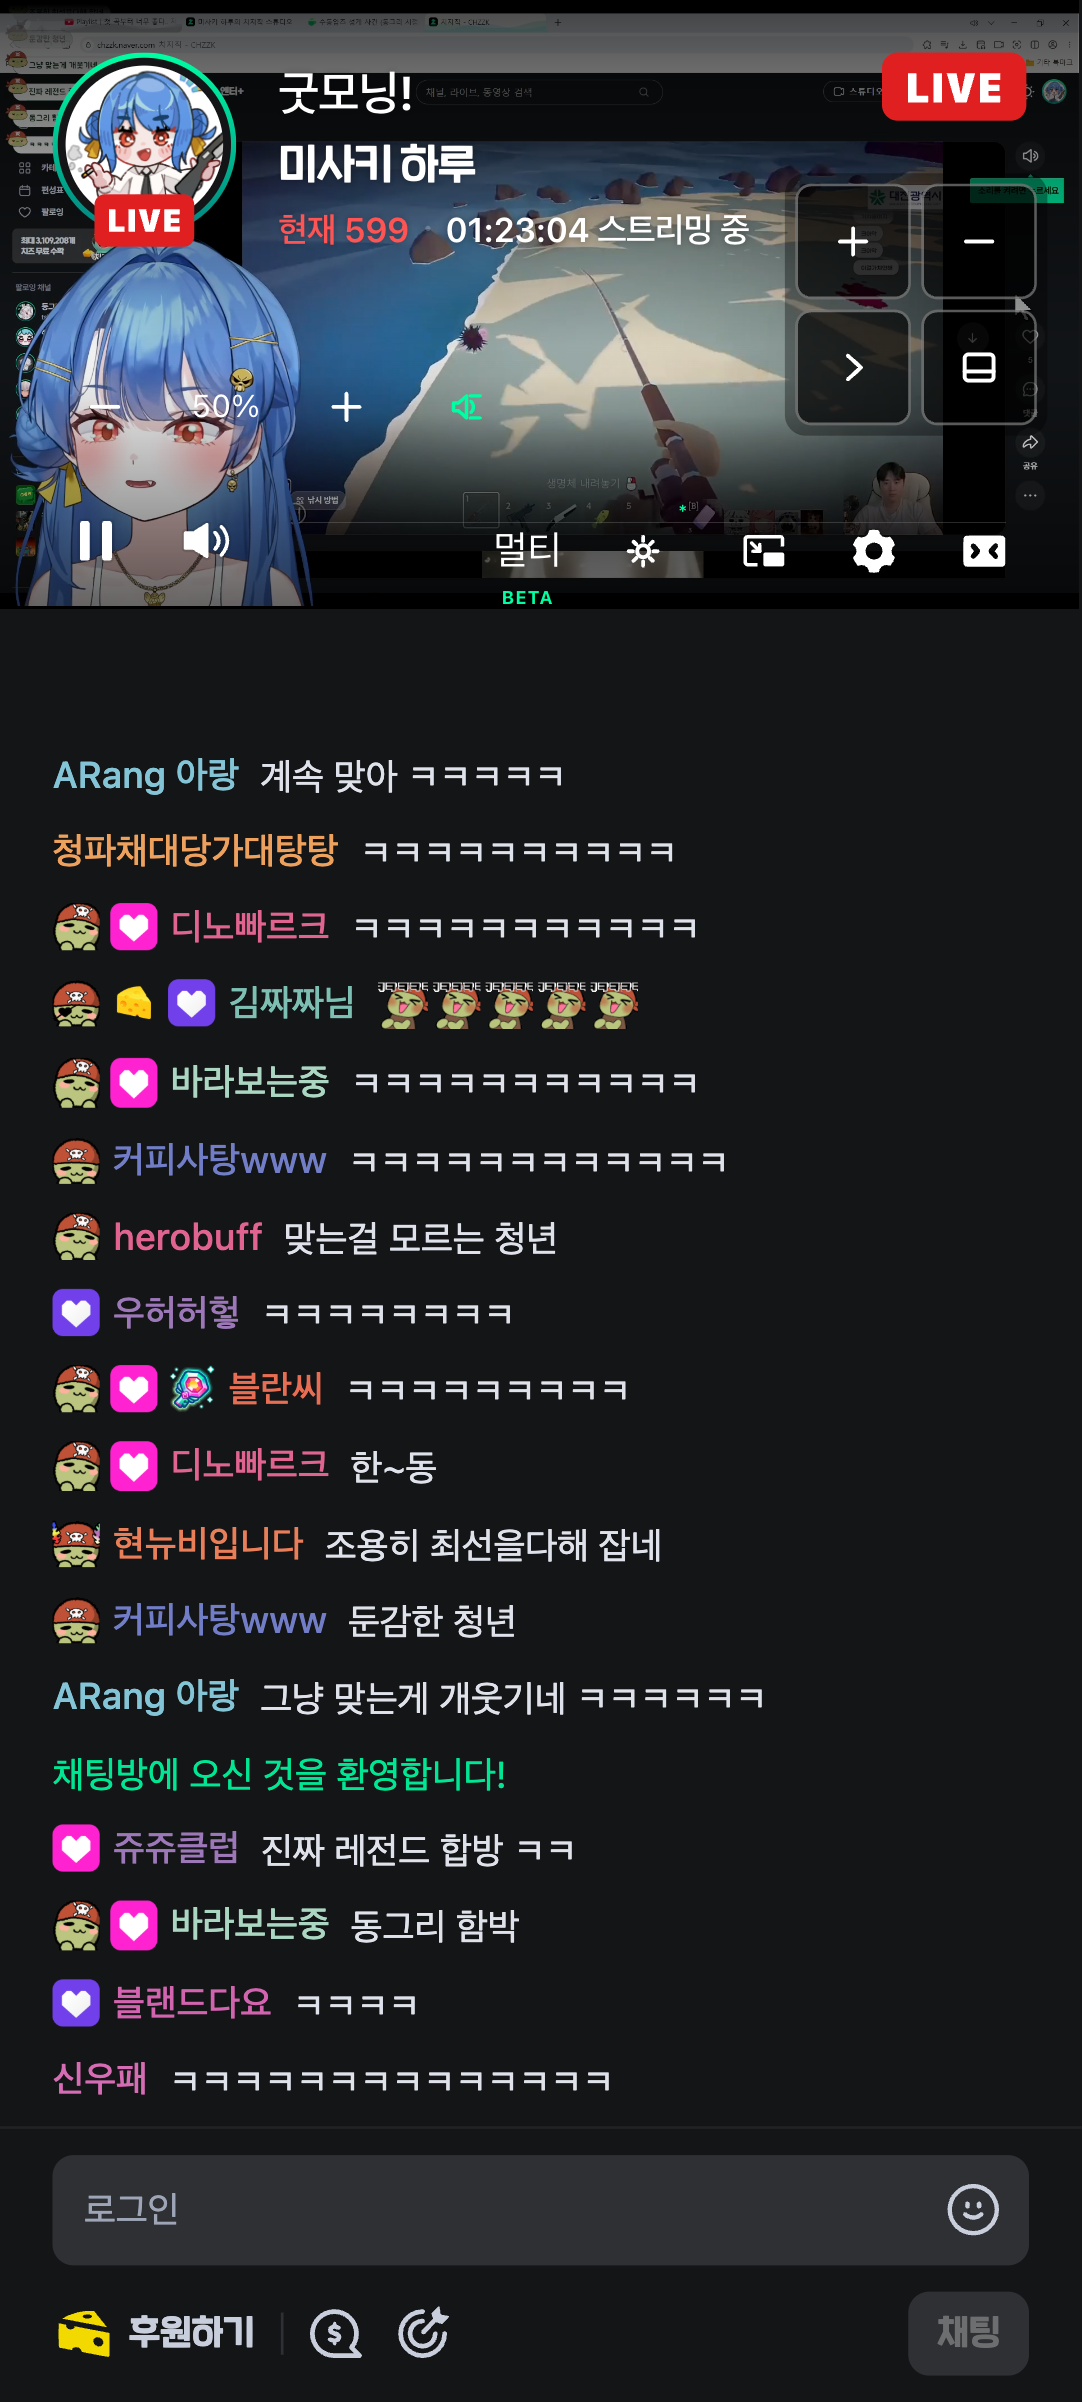
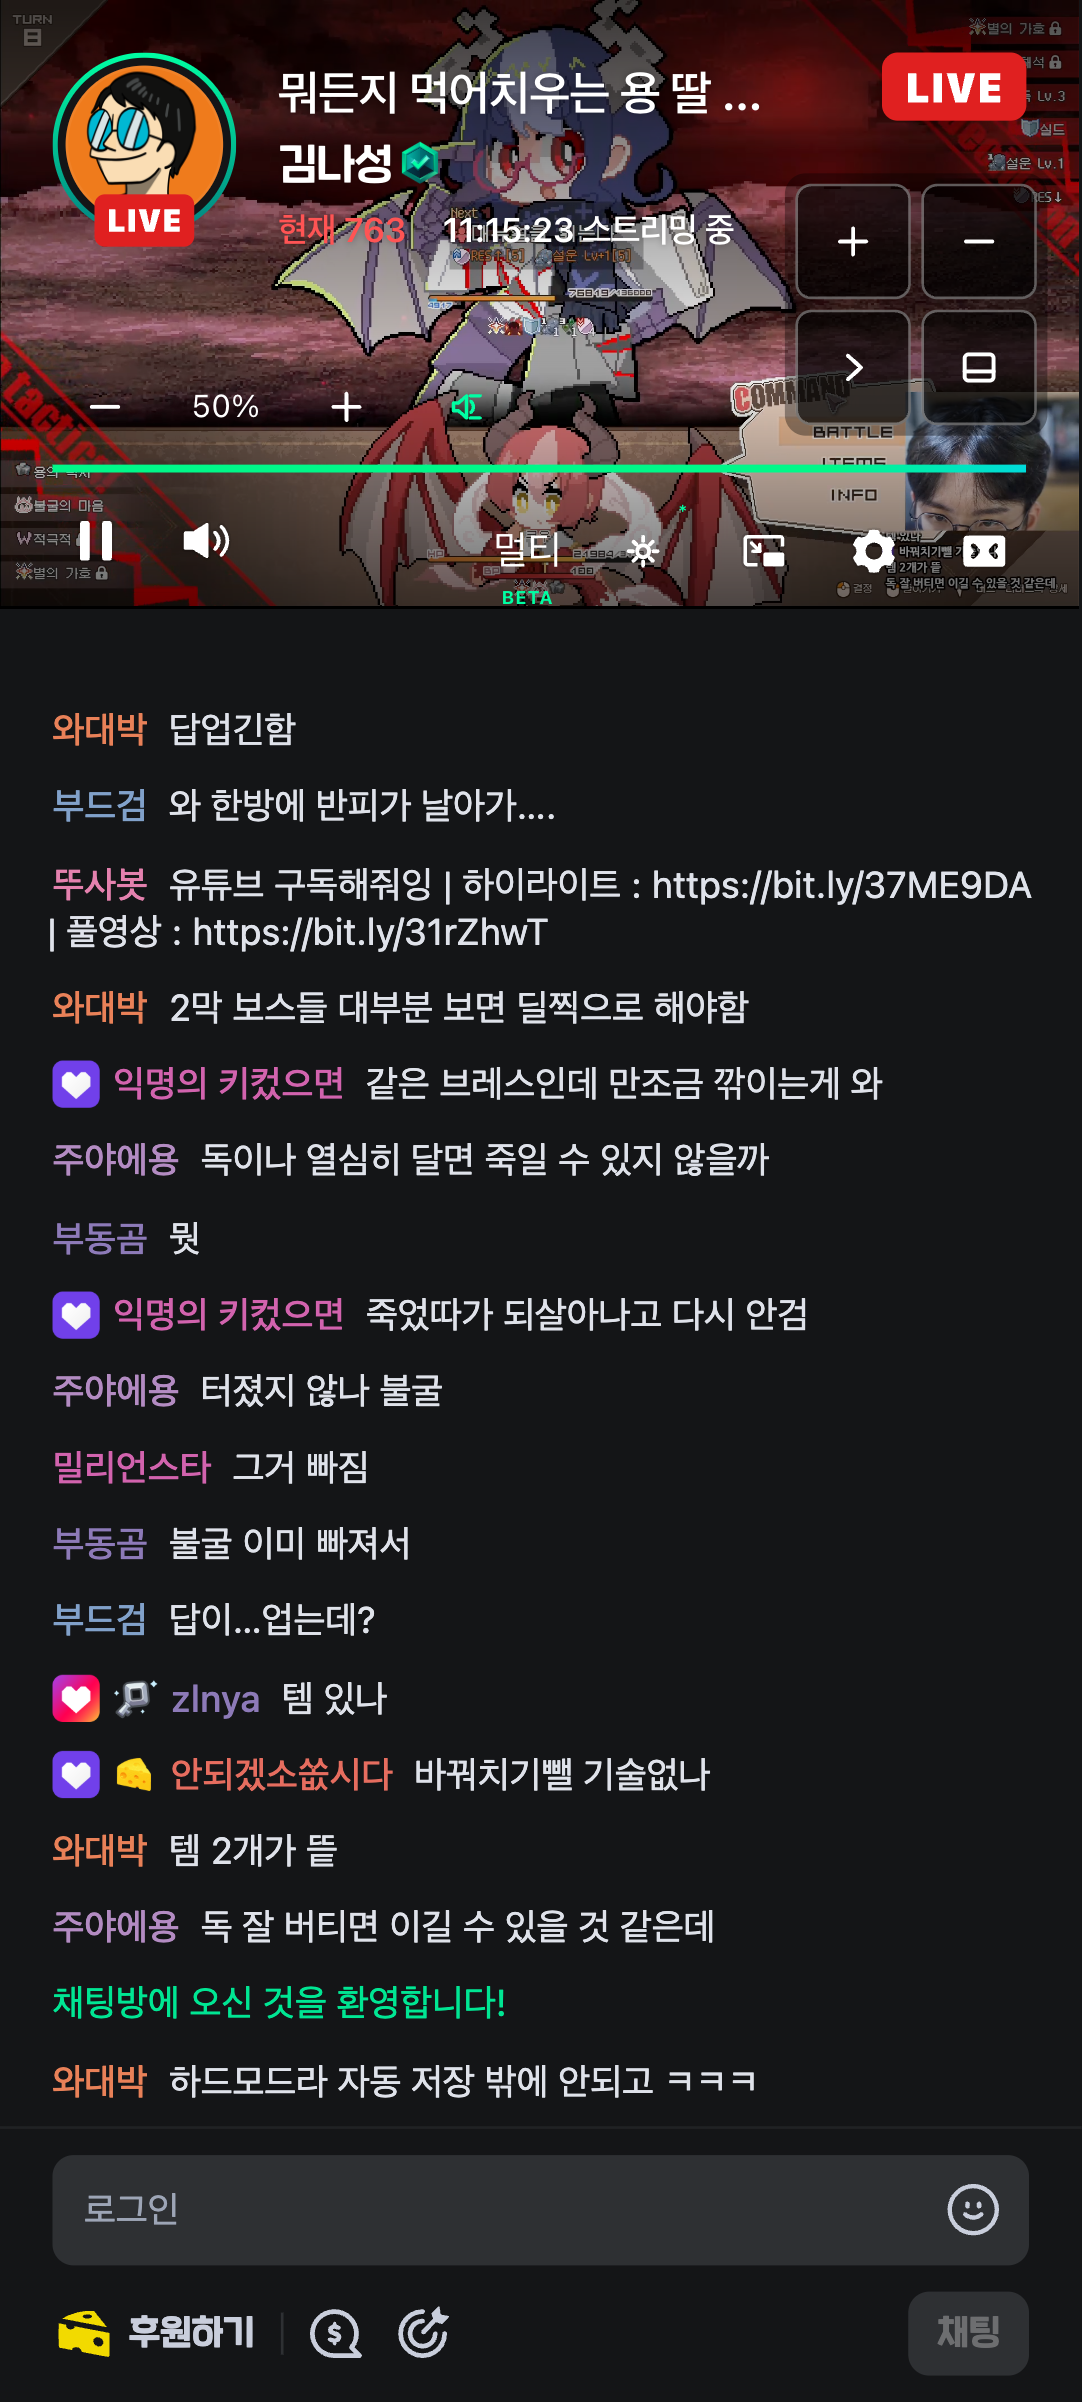
docs: Refresh demo screenshots

Changed region(s): [[0.0305, 0.281, 0.9455, 0.8743], [0.0, 0.0, 1.0, 0.2498], [0.6405, 0.5308, 0.7625, 0.562]]

diff --git a/screenshots/README-snippet.md b/screenshots/README-snippet.md
@@ -1,15 +1,15 @@
 <!-- `yarn demo:shots` 로 생성된 목록. 실제 방송을 찍으므로 매 실행마다 채널이 다르다. -->
 <!-- 멀티뷰 시청 화면은 슬롯 컨텍스트 메뉴가 새어 나오면 저장 자체가 실패한다. -->
 
-| 기본 시청 화면 — 채팅 부가 요소 숨김 + 컨트롤바 버튼 삽입 (mobile-landscape · 미사키 하루) | ![기본 시청 화면 — 채팅 부가 요소 숨김 + 컨트롤바 버튼 삽입](screenshots/demo-mobile-landscape-watch.png) |
-| 설정 패널 (FR-09.2) (mobile-landscape · 아키타 AKITA) | ![설정 패널 (FR-09.2)](screenshots/demo-mobile-landscape-settings.png) |
-| 멀티뷰 구성 시트 — 조작은 상단, 인기 방송 30개씩 추가 로드 (mobile-landscape · 둥그레) | ![멀티뷰 구성 시트 — 조작은 상단, 인기 방송 30개씩 추가 로드](screenshots/demo-mobile-landscape-multiview-config.png) |
+| 기본 시청 화면 — 채팅 부가 요소 숨김 + 컨트롤바 버튼 삽입 (mobile-landscape · 김나성) | ![기본 시청 화면 — 채팅 부가 요소 숨김 + 컨트롤바 버튼 삽입](screenshots/demo-mobile-landscape-watch.png) |
+| 설정 패널 (FR-09.2) (mobile-landscape · 서새봄냥 SEBOM) | ![설정 패널 (FR-09.2)](screenshots/demo-mobile-landscape-settings.png) |
+| 멀티뷰 구성 시트 — 조작은 상단, 인기 방송 30개씩 추가 로드 (mobile-landscape · 아시안게임 TV조선) | ![멀티뷰 구성 시트 — 조작은 상단, 인기 방송 30개씩 추가 로드](screenshots/demo-mobile-landscape-multiview-config.png) |
 | 멀티뷰 시청 화면 (4분할 · 세로 화면에서는 한 열로 쌓는다) (mobile-landscape · 김나성) | ![멀티뷰 시청 화면 (4분할 · 세로 화면에서는 한 열로 쌓는다)](screenshots/demo-mobile-landscape-multiview.png) |
-| 기본 시청 화면 — 채팅 부가 요소 숨김 + 컨트롤바 버튼 삽입 (mobile-portrait · 미사키 하루) | ![기본 시청 화면 — 채팅 부가 요소 숨김 + 컨트롤바 버튼 삽입](screenshots/demo-mobile-portrait-watch.png) |
-| 설정 패널 (FR-09.2) (mobile-portrait · 아키타 AKITA) | ![설정 패널 (FR-09.2)](screenshots/demo-mobile-portrait-settings.png) |
-| 멀티뷰 구성 시트 — 조작은 상단, 인기 방송 30개씩 추가 로드 (mobile-portrait · 둥그레) | ![멀티뷰 구성 시트 — 조작은 상단, 인기 방송 30개씩 추가 로드](screenshots/demo-mobile-portrait-multiview-config.png) |
+| 기본 시청 화면 — 채팅 부가 요소 숨김 + 컨트롤바 버튼 삽입 (mobile-portrait · 김나성) | ![기본 시청 화면 — 채팅 부가 요소 숨김 + 컨트롤바 버튼 삽입](screenshots/demo-mobile-portrait-watch.png) |
+| 설정 패널 (FR-09.2) (mobile-portrait · 서새봄냥 SEBOM) | ![설정 패널 (FR-09.2)](screenshots/demo-mobile-portrait-settings.png) |
+| 멀티뷰 구성 시트 — 조작은 상단, 인기 방송 30개씩 추가 로드 (mobile-portrait · 초승달) | ![멀티뷰 구성 시트 — 조작은 상단, 인기 방송 30개씩 추가 로드](screenshots/demo-mobile-portrait-multiview-config.png) |
 | 멀티뷰 시청 화면 (4분할 · 세로 화면에서는 한 열로 쌓는다) (mobile-portrait · 김나성) | ![멀티뷰 시청 화면 (4분할 · 세로 화면에서는 한 열로 쌓는다)](screenshots/demo-mobile-portrait-multiview.png) |
-| 기본 시청 화면 — 채팅 부가 요소 숨김 + 컨트롤바 버튼 삽입 (laptop13 · 미사키 하루) | ![기본 시청 화면 — 채팅 부가 요소 숨김 + 컨트롤바 버튼 삽입](screenshots/demo-laptop13-watch.png) |
-| 설정 패널 (FR-09.2) (laptop13 · 아키타 AKITA) | ![설정 패널 (FR-09.2)](screenshots/demo-laptop13-settings.png) |
-| 멀티뷰 구성 시트 — 조작은 상단, 인기 방송 30개씩 추가 로드 (laptop13 · 둥그레) | ![멀티뷰 구성 시트 — 조작은 상단, 인기 방송 30개씩 추가 로드](screenshots/demo-laptop13-multiview-config.png) |
-| 멀티뷰 시청 화면 (4분할 · 세로 화면에서는 한 열로 쌓는다) (laptop13 · 김나성) | ![멀티뷰 시청 화면 (4분할 · 세로 화면에서는 한 열로 쌓는다)](screenshots/demo-laptop13-multiview.png) |
+| 기본 시청 화면 — 채팅 부가 요소 숨김 + 컨트롤바 버튼 삽입 (laptop13 · 김나성) | ![기본 시청 화면 — 채팅 부가 요소 숨김 + 컨트롤바 버튼 삽입](screenshots/demo-laptop13-watch.png) |
+| 설정 패널 (FR-09.2) (laptop13 · 서새봄냥 SEBOM) | ![설정 패널 (FR-09.2)](screenshots/demo-laptop13-settings.png) |
+| 멀티뷰 구성 시트 — 조작은 상단, 인기 방송 30개씩 추가 로드 (laptop13 · 아시안게임 TV조선) | ![멀티뷰 구성 시트 — 조작은 상단, 인기 방송 30개씩 추가 로드](screenshots/demo-laptop13-multiview-config.png) |
+| 멀티뷰 시청 화면 (4분할 · 세로 화면에서는 한 열로 쌓는다) (laptop13 · 티아나 스이) | ![멀티뷰 시청 화면 (4분할 · 세로 화면에서는 한 열로 쌓는다)](screenshots/demo-laptop13-multiview.png) |
